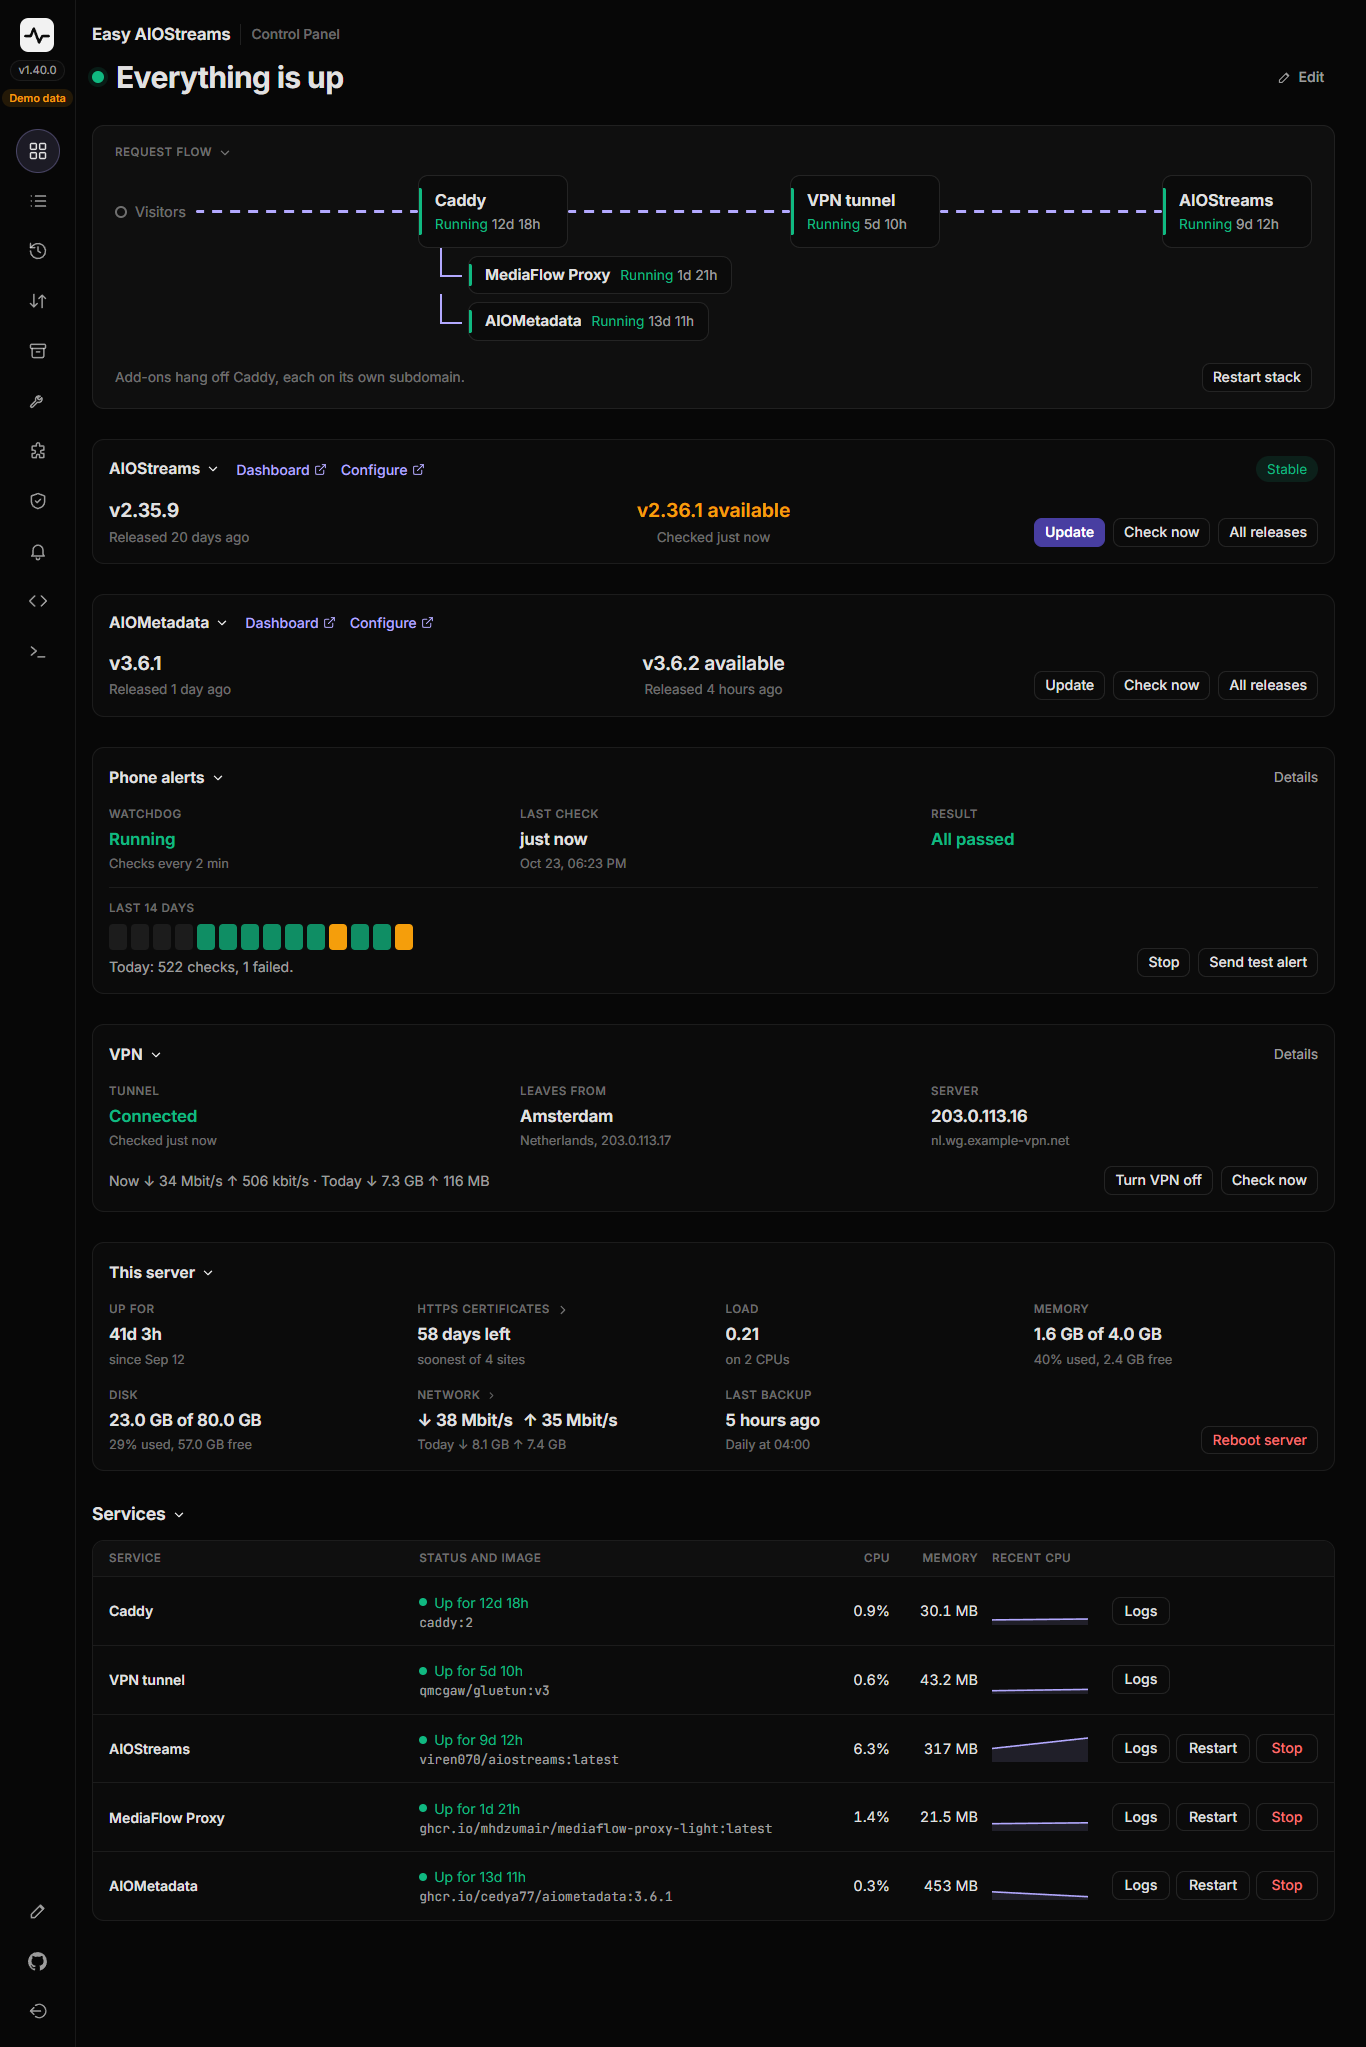
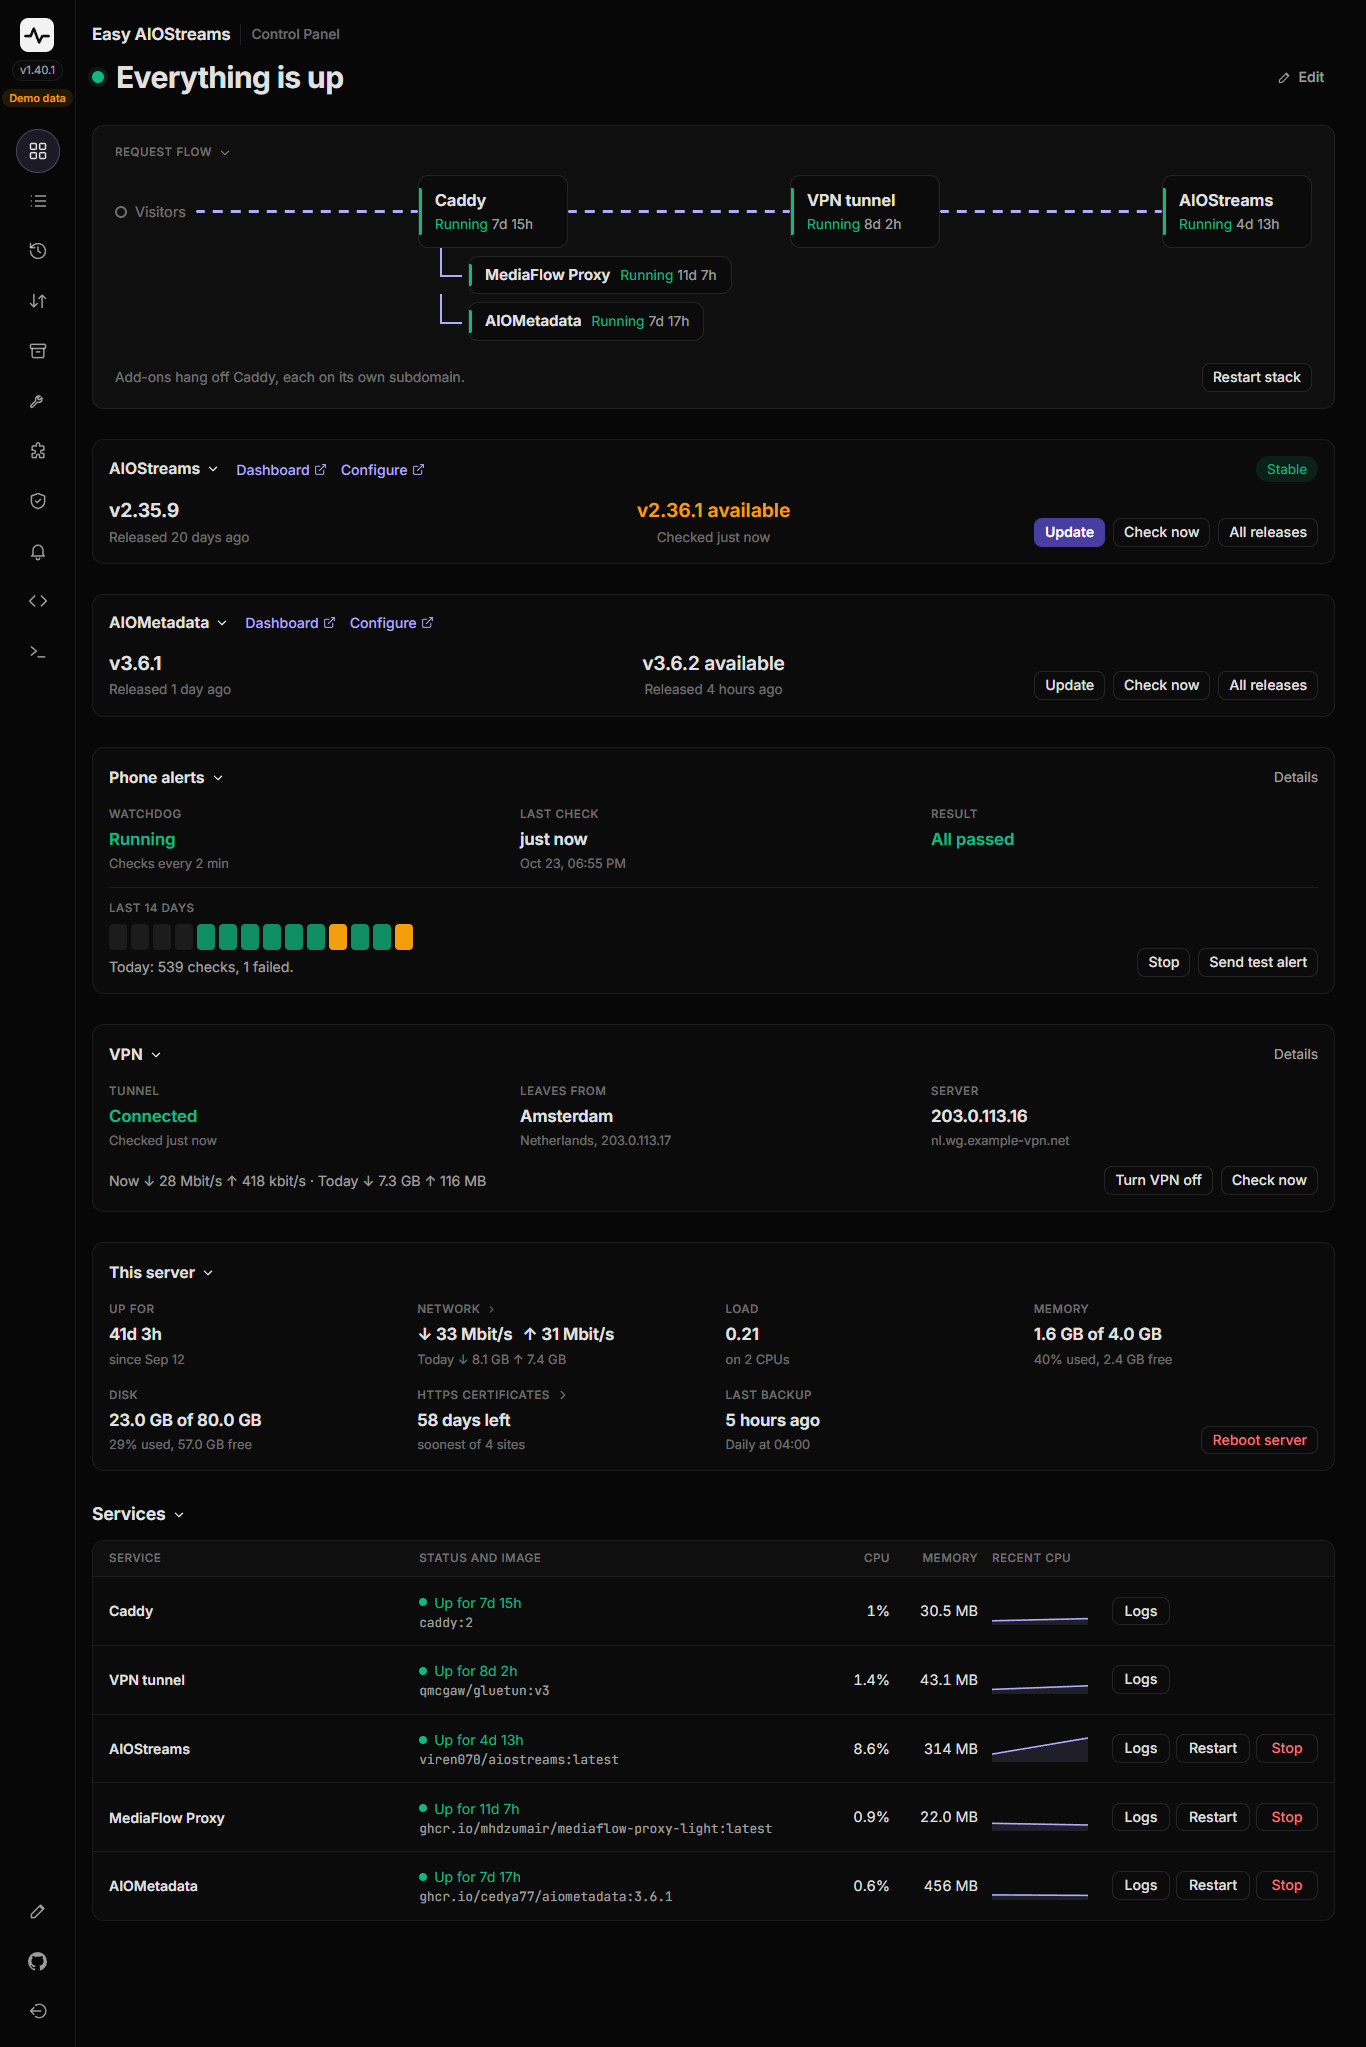
Panel 1.40.1: HTTPS certificates sit on This server's bottom row
Swapped with Network, so the tile whose chevron opens the certificates
list is right above it. Docs screenshots refreshed.

diff --git a/control-panel/web/js/overview.js b/control-panel/web/js/overview.js
@@ -617,16 +617,6 @@ function side(st) {
   if (hostFolded) host.firstChild.append(hostSum(st));
   const grid = h("div", { class: "stat-grid" });
   if (hs.uptime != null) grid.append(stat("Up for", fmtDur(hs.uptime), `since ${dayMonth(Date.now() - hs.uptime * 1000)}`));
-  const certList = certTiles(grid, st);
-  if (hs.load) {
-    const pct = (hs.load[0] / (hs.cpus || 1)) * 100;
-    grid.append(stat("Load", hs.load[0].toFixed(2), `on ${hs.cpus} CPU${hs.cpus > 1 ? "s" : ""}`, tone(pct, 75, 90)));
-  }
-  for (const [label, used, total, warn] of [["Memory", hs.mem_used, hs.mem_total, 80], ["Disk", hs.disk_used, hs.disk_total, 80]]) {
-    if (!total) continue;
-    const pct = (used / total) * 100;
-    grid.append(stat(label, `${fmtBytes(used)} of ${fmtBytes(total)}`, `${Math.round(pct)}% used, ${fmtBytes(total - used)} free`, tone(pct, warn, 90)));
-  }
   // The server's own network card, everything in and out (the VPN's tunnel travels through it
   // too): the speed now and today's totals
   if (st.net && st.net.host) {
@@ -642,6 +632,17 @@ function side(st) {
     if (n) net.children[1].append(h("span", { class: "nowrap", text: `↓ ${fmtRate(n[0])}` }), h("span", { class: "nowrap", text: `↑ ${fmtRate(n[1])}` }));
     grid.append(net);
   }
+  if (hs.load) {
+    const pct = (hs.load[0] / (hs.cpus || 1)) * 100;
+    grid.append(stat("Load", hs.load[0].toFixed(2), `on ${hs.cpus} CPU${hs.cpus > 1 ? "s" : ""}`, tone(pct, 75, 90)));
+  }
+  for (const [label, used, total, warn] of [["Memory", hs.mem_used, hs.mem_total, 80], ["Disk", hs.disk_used, hs.disk_total, 80]]) {
+    if (!total) continue;
+    const pct = (used / total) * 100;
+    grid.append(stat(label, `${fmtBytes(used)} of ${fmtBytes(total)}`, `${Math.round(pct)}% used, ${fmtBytes(total - used)} free`, tone(pct, warn, 90)));
+  }
+  // On the bottom row, right above the section its chevron opens
+  const certList = certTiles(grid, st);
   // The newest backup, any kind, and the schedule; amber when the last scheduled one failed or was skipped
   const bk = st.backup;
   if (bk) {
